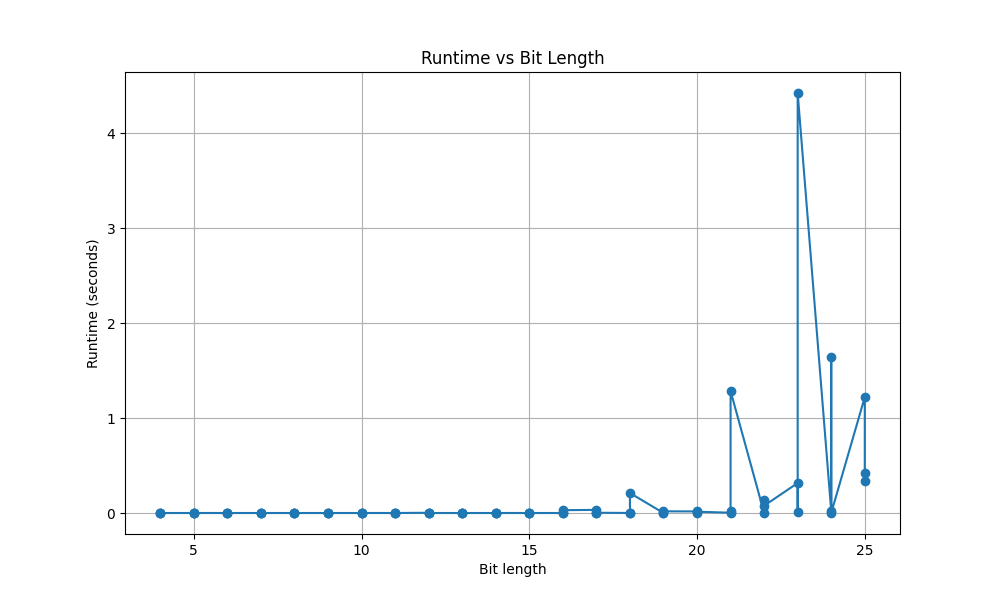
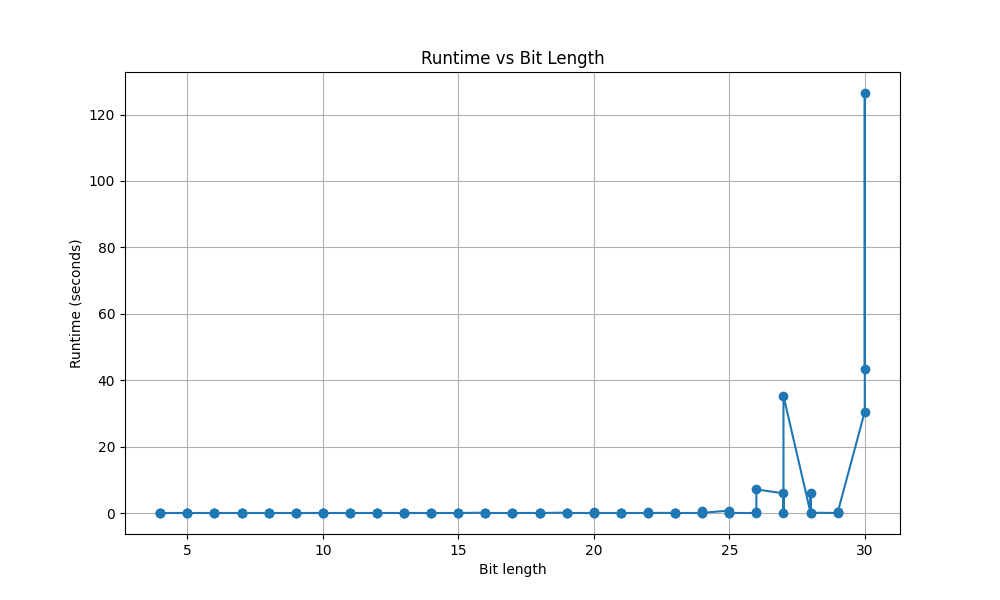
30 bits and plots

diff --git a/main.py b/main.py
@@ -3,13 +3,13 @@ from plotter import plot_runtime, plot_memory, plot_success_rate
 from shor import shor_classical_simulation
 
 def main():
-    results = benchmark_shor(min_bits=4, max_bits=25, trials_per_bit=3)
+    results = benchmark_shor(min_bits=4, max_bits=30, trials_per_bit=3)
 
     plot_runtime(results)
     plot_memory(results)
     plot_success_rate(results)
 
-
+    
     print("\nRunning a verbose demo on N = 55 as an example")
     shor_classical_simulation(55, verbose=True)
 
